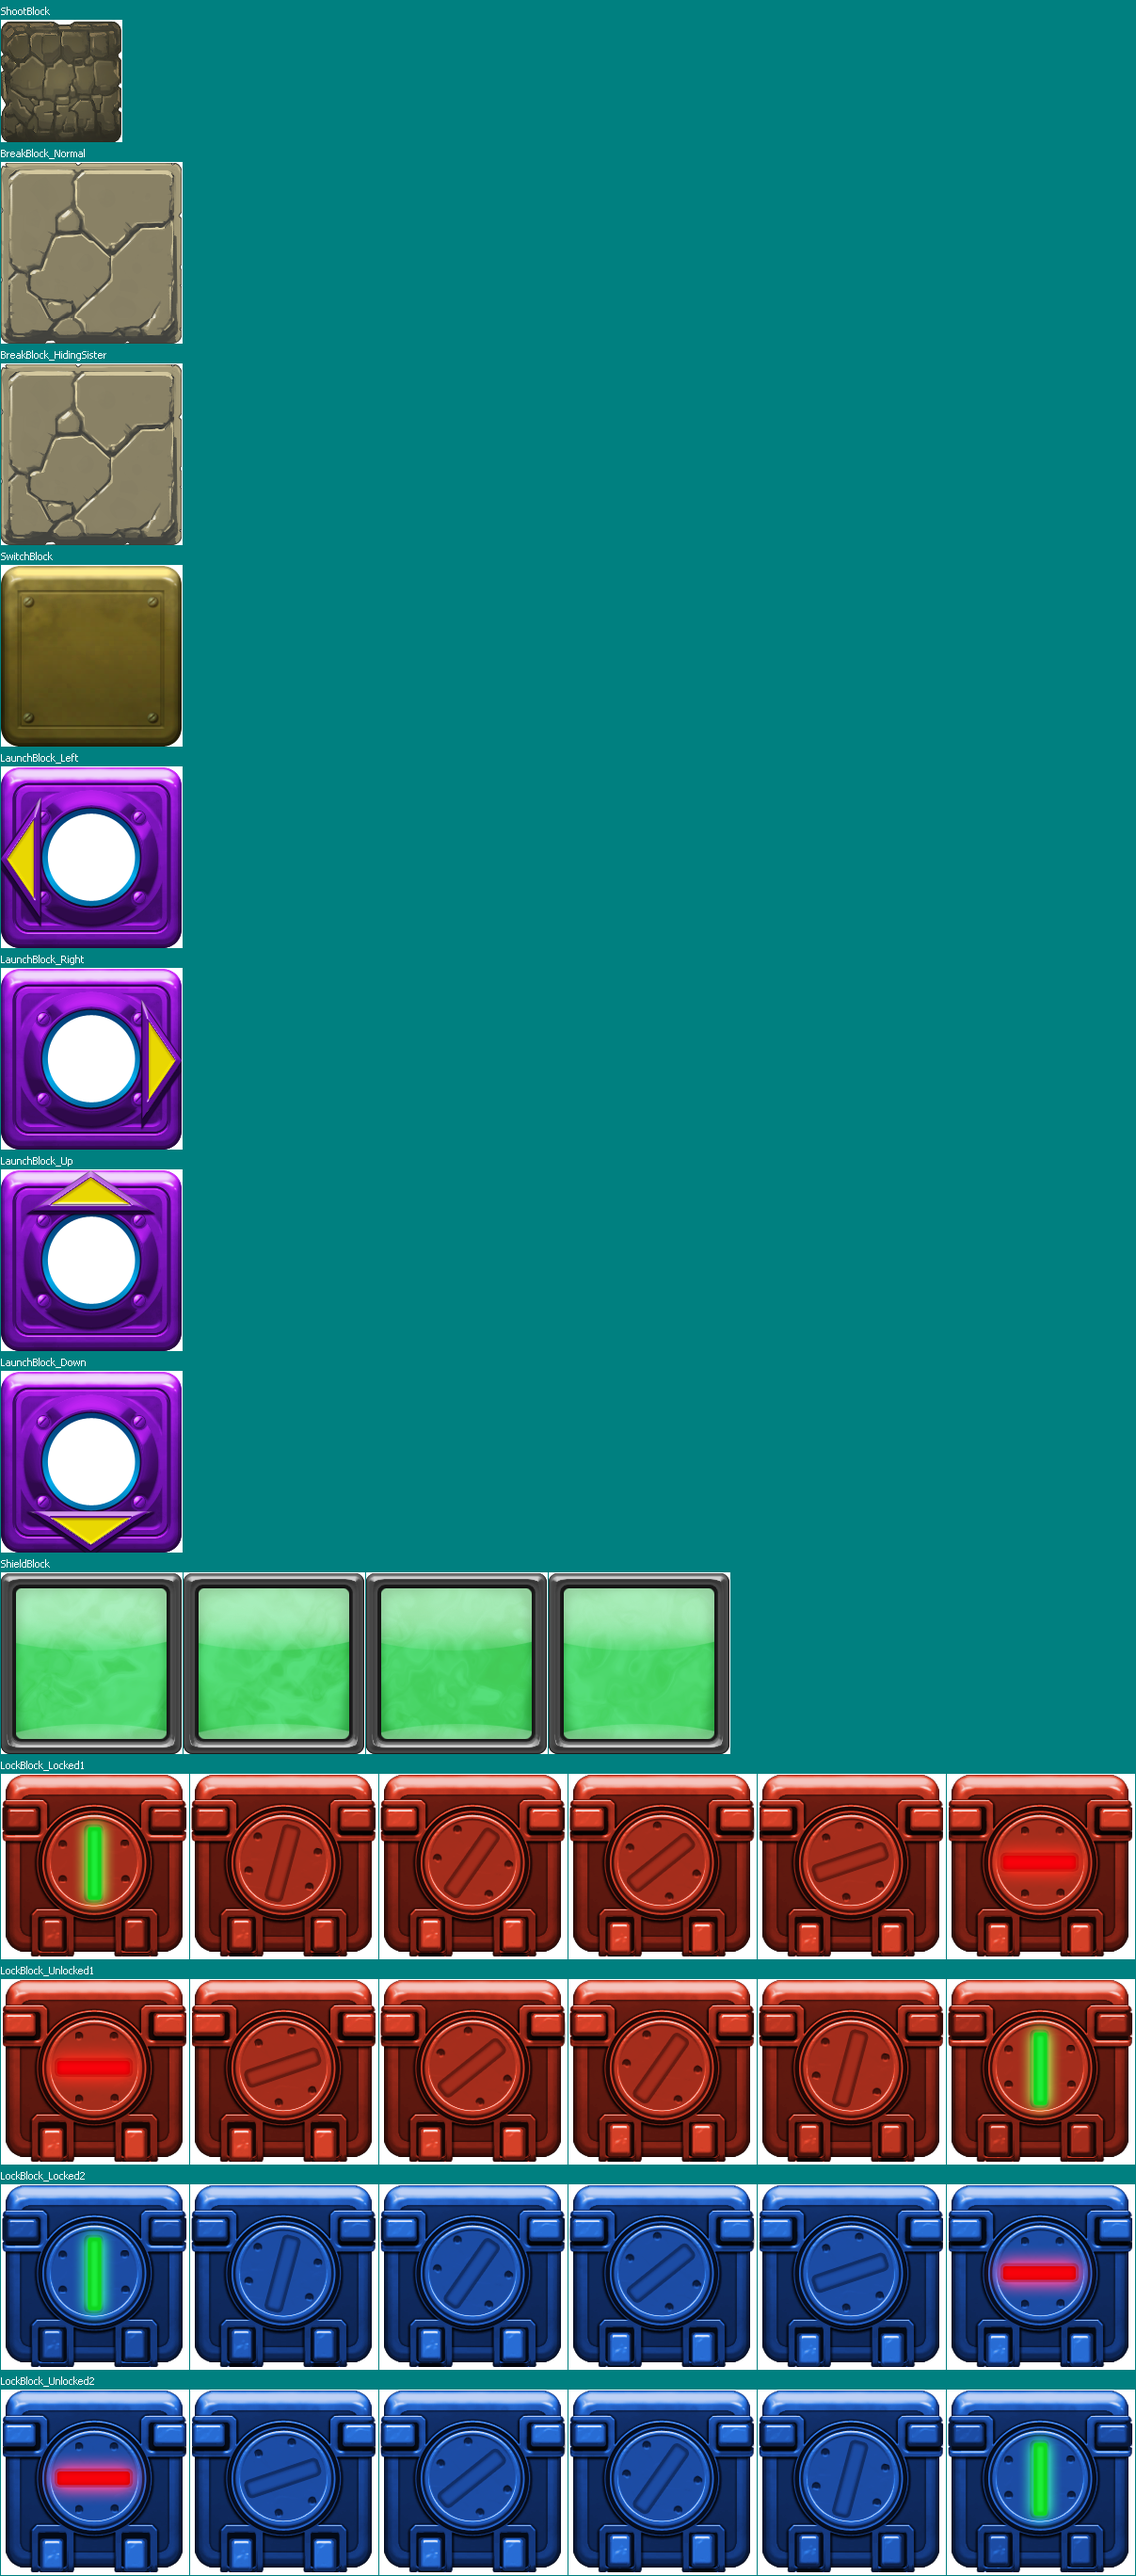
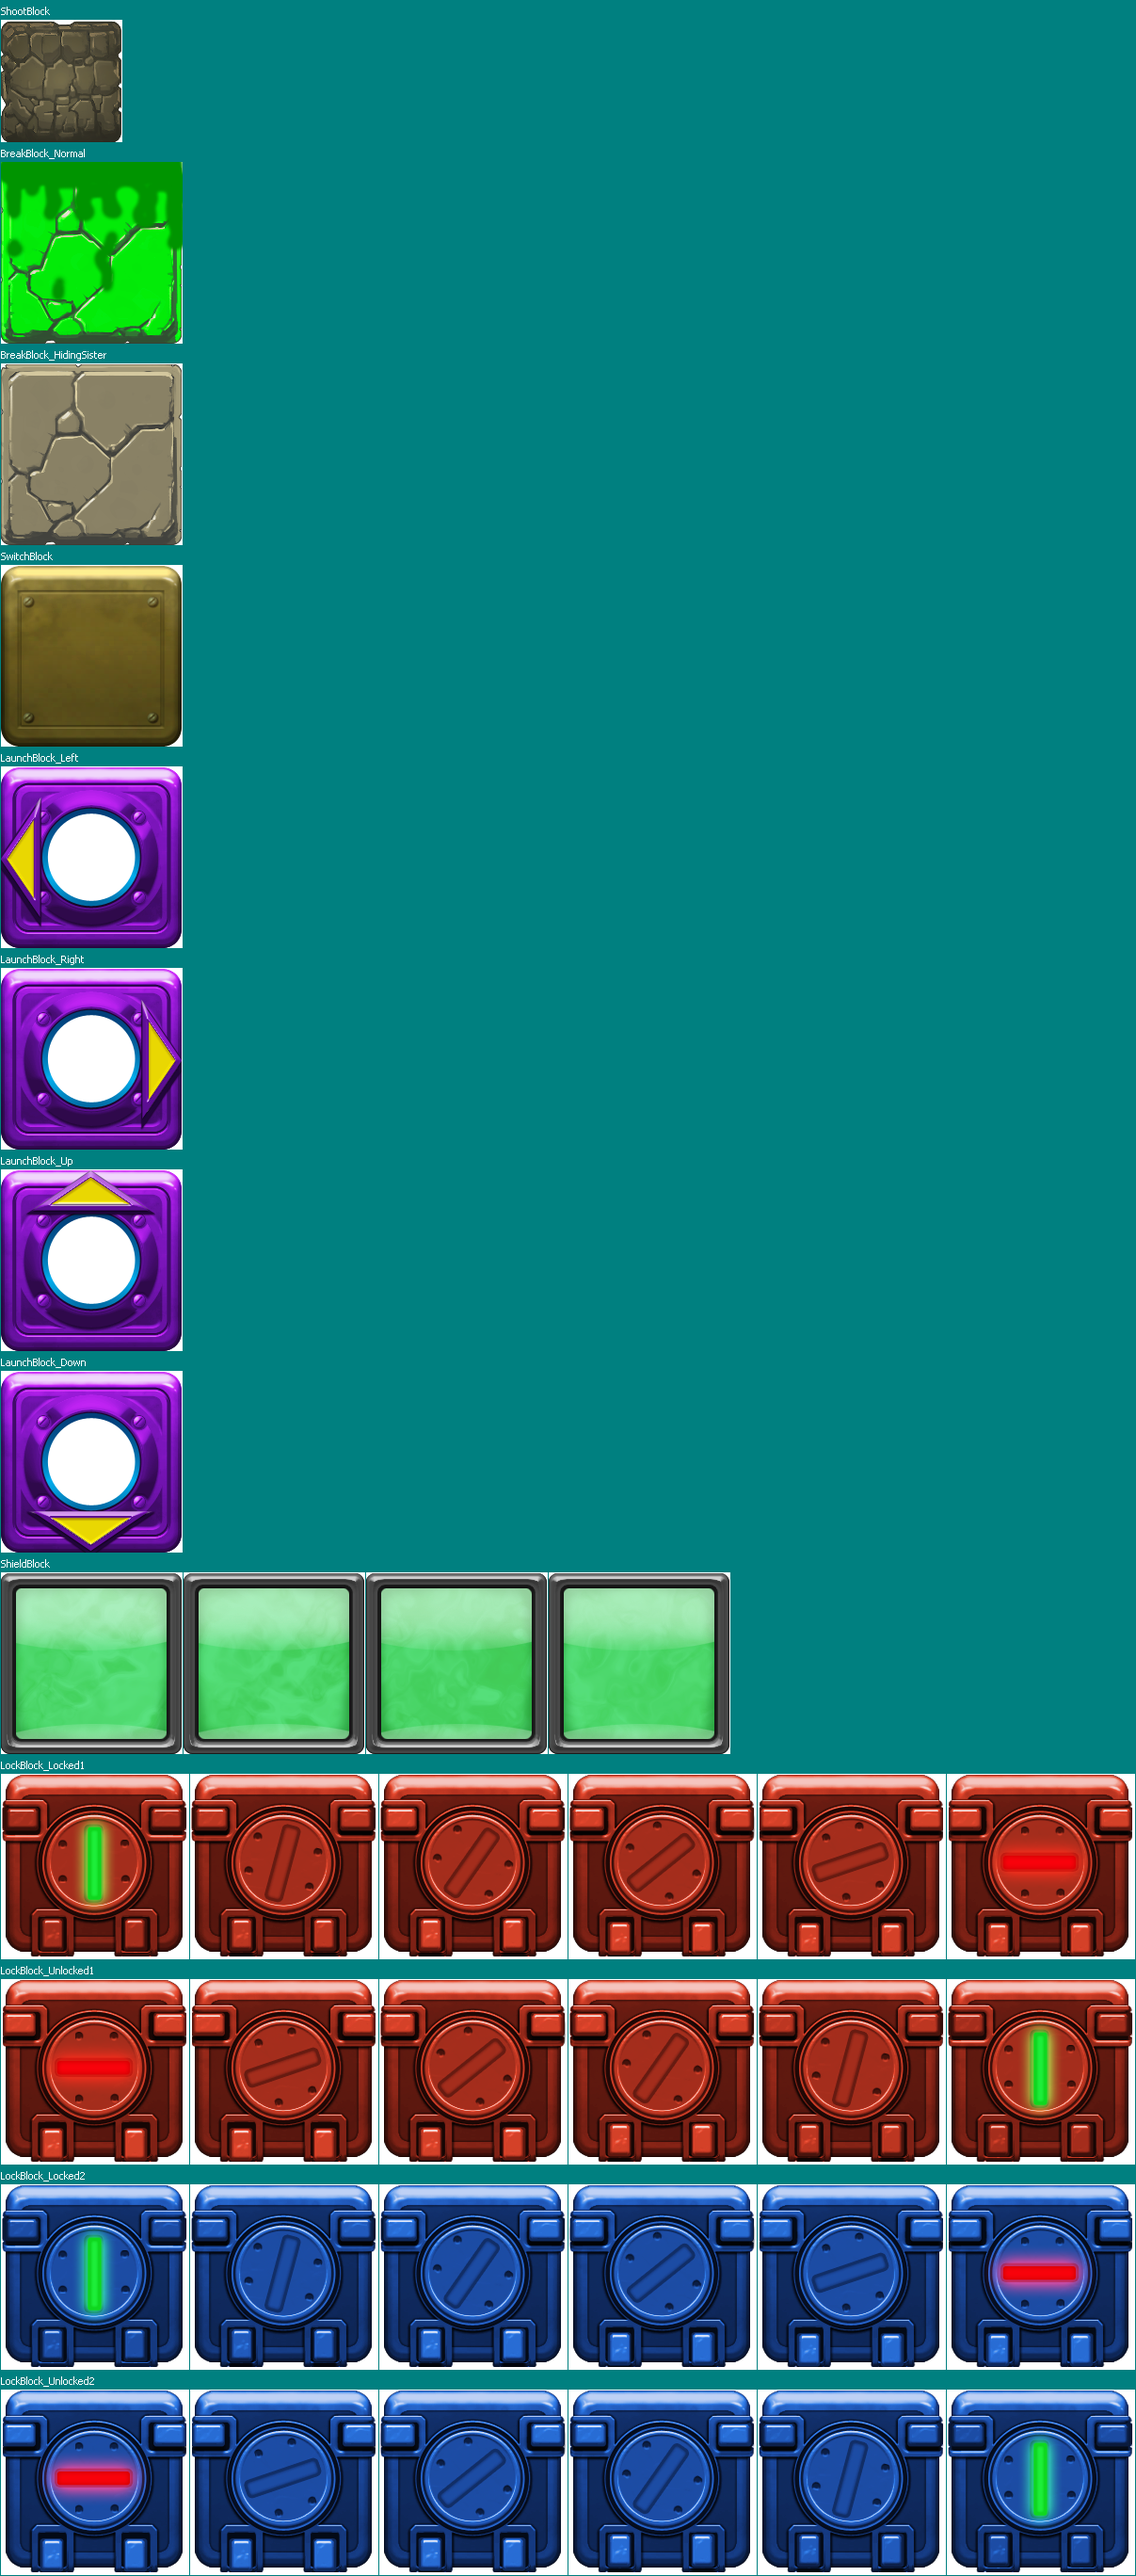
Agrego textura de bloque de acido

Changed region(s): [[0.0, 0.0621, 0.1839, 0.1553]]

diff --git a/client/src/window/window.cpp b/client/src/window/window.cpp
@@ -9,6 +9,7 @@
 #include "../../includes/textures/chell_texture/chell_texture.h"
 #include "../../includes/textures/block_metal_texture/block_metal_texture.h"
 #include "../../includes/textures/block_rock_texture/block_rock_texture.h"
+#include "../../includes/textures/block_acid_texture/block_acid_texture.h"
 #include "../../includes/textures/portal_texture/portal_blue_texture.h"
 #include "../../includes/textures/door_texture/door_one_texture.h"
 #include "../../includes/textures/energy_ball_texture/energy_ball_texture.h"
@@ -85,6 +86,8 @@ void Window::add_map(){
             this->add_block_metal_texture(id,area);
         } else if (material == "rock"){
             this->add_block_rock_texture(id,area);
+        } else if (material == "acid"){
+            this->add_block_acid_texture(id,area);
         }
     }
 
@@ -610,6 +613,30 @@ void Window::add_triangle_top_right_texture(uint32_t id, Area areaMap){
                                     new TriangleTopRightTexture(
                                         this->bigTextures.at(
                                             ALL_TRIANGLES_SPRITES
+                                        ), 
+                                        areaMap
+                                    )
+                                );
+    this->add_texture(id, std::move(ptrTexture));
+}
+
+/*
+PRE: Recibe :
+    El id (uint32_t) de indentificacion de bloque de acido a agregar.
+    El area (Area) con las coordenadas y dimensiones del objeto
+    que representa la textura en el mapa de juego (en unidades de 
+    distancia del juego).
+POST: Agrega un nueva textura de bloque de acido a la ventana, bajo las 
+condiciones anteriores.
+Levanta OSException o SdlException en caso de error.
+*/
+void Window::add_block_acid_texture(uint32_t id, Area areaMap){
+    this->add_id_texture(id);
+    this->add_big_texture(ALL_BLOCKS_SPRITES);
+    std::unique_ptr<Texture> ptrTexture(
+                                    new BlockAcidTexture(
+                                        this->bigTextures.at(
+                                            ALL_BLOCKS_SPRITES
                                         ), 
                                         areaMap
                                     )

diff --git a/client/src/textures/block_acid_texture/block_acid_texture.cpp b/client/src/textures/block_acid_texture/block_acid_texture.cpp
@@ -1,6 +1,6 @@
-#include "../../../includes/textures/block_rock_texture/block_rock_texture.h"
+#include "../../../includes/textures/block_acid_texture/block_acid_texture.h"
 
-#include "../../../includes/textures/block_rock_texture/block_rock_sprite.h"
+#include "../../../includes/textures/block_acid_texture/block_acid_sprite.h"
 #include "../../../includes/textures/common_texture/area.h"
 #include "../../../includes/textures/common_texture/big_texture.h"
 #include "../../../includes/textures/common_texture/texture.h"
@@ -12,18 +12,18 @@
 PRE: Recibe una gran textura que contiene de la imagen ALL_BLOCKS_SPRITES 
 de images_paths.h; y el area del mapa de juego que representa esta 
 textura.
-POST: Inicializa una texture de bloque de piedra.
+POST: Inicializa una texture de bloque de acido.
 */
-BlockRockTexture::BlockRockTexture(BigTexture & bigTexture, Area areaMap) 
+BlockAcidTexture::BlockAcidTexture(BigTexture & bigTexture, Area areaMap) 
 :    Texture(bigTexture, areaMap, 
         std::move(
             std::unique_ptr<SpriteStrategy>(new SpriteStrategy(
                 std::move(std::unique_ptr<DynamicSprite>(
-                    new BlockRockSprite()
+                    new BlockAcidSprite()
                 ))
             ))
         )
     ) {}
 
-/*Destruye la textura del bloque de piedra.*/
-BlockRockTexture::~BlockRockTexture() = default;
+/*Destruye la textura del bloque de acido.*/
+BlockAcidTexture::~BlockAcidTexture() = default;

diff --git a/client/includes/window/window.h b/client/includes/window/window.h
@@ -111,6 +111,18 @@ public:
 
     /*
     PRE: Recibe :
+        El id (uint32_t) de indentificacion de bloque de acido a agregar.
+        El area (Area) con las coordenadas y dimensiones del objeto
+        que representa la textura en el mapa de juego (en unidades de 
+        distancia del juego).
+    POST: Agrega un nueva textura de bloque de acido a la ventana, bajo las 
+    condiciones anteriores.
+    Levanta OSException o SdlException en caso de error.
+    */
+    void add_block_acid_texture(uint32_t id, Area areaMap);
+
+    /*
+    PRE: Recibe :
         El id (uint32_t) de indentificacion de la chell a agregar.
         El area (Area) con las coordenadas y dimensiones del objeto
         que representa la textura en el mapa de juego (en unidades 

diff --git a/client/includes/textures/block_acid_texture/block_acid_texture.h b/client/includes/textures/block_acid_texture/block_acid_texture.h
@@ -1,0 +1,22 @@
+#ifndef BLOCK_ACID_TEXTURE_H
+#define BLOCK_ACID_TEXTURE_H
+
+#include "../common_texture/texture.h"
+#include "../common_texture/area.h"
+#include "../common_texture/big_texture.h"
+
+class BlockAcidTexture : public Texture {
+public:
+    /*
+    PRE: Recibe una gran textura que contiene de la 
+    imagen ALL_BLOCKS_SPRTES; y el area del mapa de juego 
+    que representa esta textura.
+    POST: Inicializa una textura de bloque de acido.
+    */
+    BlockAcidTexture(BigTexture & bigTexture, Area areaMap);
+
+    /*Destruye la textura del bloque de acido.*/
+    virtual ~BlockAcidTexture();
+};
+
+#endif // BLOCK_ACID_TEXTURE_H

diff --git a/client/src/textures/block_rock_texture/block_rock_sprite.cpp b/client/src/textures/block_rock_texture/block_rock_sprite.cpp
@@ -3,16 +3,16 @@
 #include "../../../includes/textures/common_texture/dynamic_sprite.h"
 
 /*
-Iniciliza un sprite de bloque de piedra estatico que se 
+Inicializa un sprite de bloque de piedra estatico que se 
 encuentra en la imagen ALL_BLOCKS_SPRITES de images_paths.h .
 */
 BlockRockSprite::BlockRockSprite()
 :   DynamicSprite(
         {
-            {1,172}
+            {1,386}
         },
         193,193
     )
     {}
-/*Destrue el sprite de bloque de piedra estatico.*/
+/*Destruye el sprite de bloque de piedra estatico.*/
 BlockRockSprite::~BlockRockSprite() = default;

diff --git a/client/src/textures/block_acid_texture/block_acid_sprite.cpp b/client/src/textures/block_acid_texture/block_acid_sprite.cpp
@@ -1,0 +1,18 @@
+#include "../../../includes/textures/block_acid_texture/block_acid_sprite.h"
+
+#include "../../../includes/textures/common_texture/dynamic_sprite.h"
+
+/*
+Inicializa un sprite de bloque de acido estatico que se 
+encuentra en la imagen ALL_BLOCKS_SPRITES de images_paths.h .
+*/
+BlockAcidSprite::BlockAcidSprite()
+:   DynamicSprite(
+        {
+            {1,172}
+        },
+        193,193
+    )
+    {}
+/*Destruye el sprite de bloque de acido estatico.*/
+BlockAcidSprite::~BlockAcidSprite() = default;

diff --git a/client/includes/textures/block_acid_texture/block_acid_sprite.h b/client/includes/textures/block_acid_texture/block_acid_sprite.h
@@ -1,0 +1,15 @@
+#ifndef BLOCK_ACID_SPRITE_H
+#define BLOCK_ACID_SPRITE_H
+
+#include "../common_texture/dynamic_sprite.h"
+
+class BlockAcidSprite : public DynamicSprite {
+public:
+    /*Inicializa un sprite de bloque de acido estatico.*/
+    BlockAcidSprite();
+
+    /*Destruye el sprite de bloque de acido estatico.*/
+    virtual ~BlockAcidSprite();
+};
+
+#endif // BLOCK_ACID_SPRITE_H
